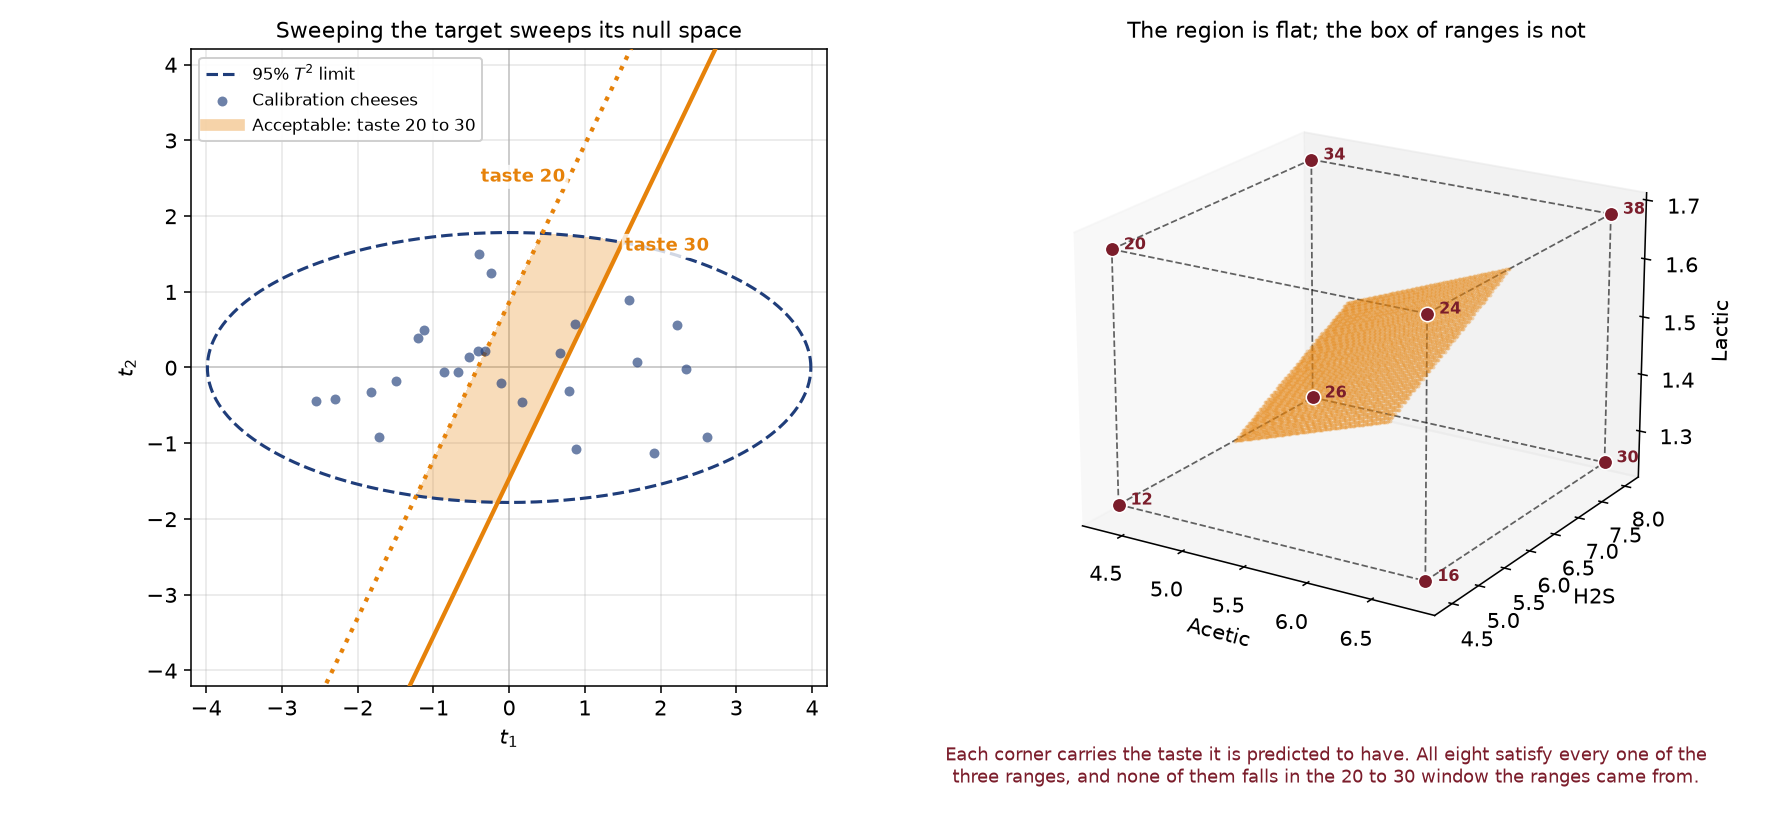
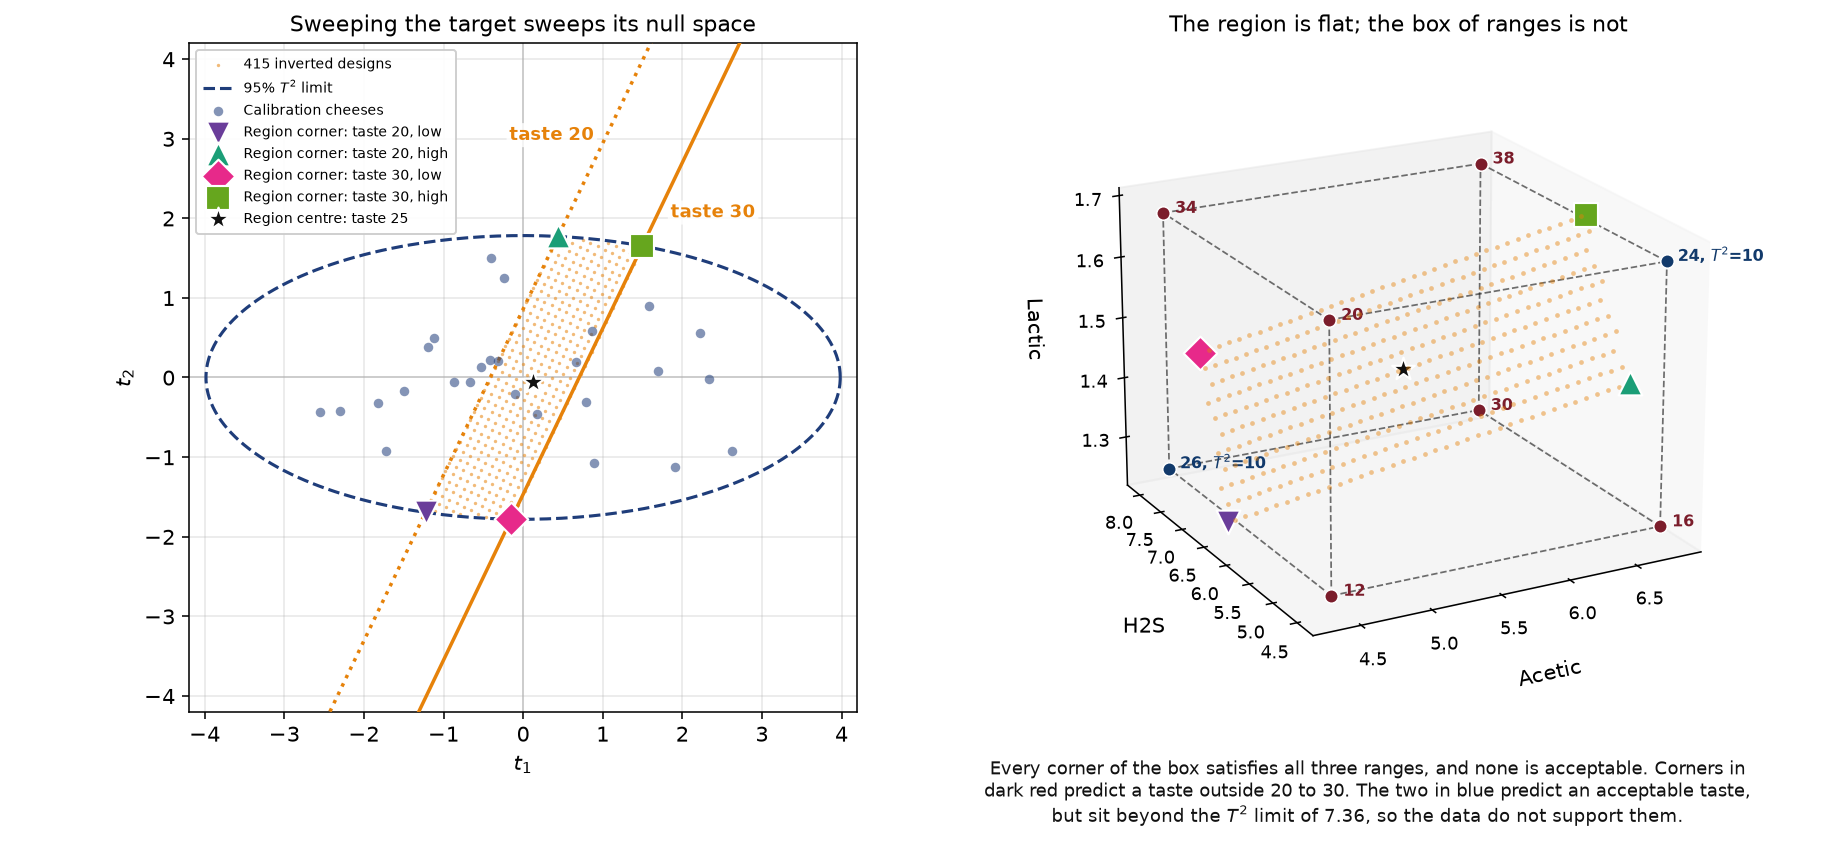
Mark five shared landmarks, and colour the corners by why they fail
Two corrections and one addition.

The claim that no corner falls in the taste window was wrong. Two of the
eight predict 23.8 and 26.0, both perfectly acceptable. They fail because
their T-squared reaches 10.5 and 10.3 against a limit of 7.36, so they are
extrapolations rather than bad-tasting recipes. Corners are now coloured by
which of the two reasons applies, and the blue ones carry their T-squared.

Five points now appear in both panels with the same shape and colour: the
four corners of the region, found by solving where each outer null space
crosses the T-squared limit, and the region's centre. A location in the
score plot can now be followed to the recipe it stands for.

The sweep is 11 tastes at 50 steps each, walking the chord the limit
actually allows rather than a fixed range that discarded most of its steps.
The view rotates to azim -118, which shows the face of the plane rather
than its edge.

Claude-Session: https://claude.ai/code/session_01DsTypY4FcRbrXRxorb9raz

diff --git a/pls/pls-specification-region.py b/pls/pls-specification-region.py
@@ -8,7 +8,11 @@ A taste specification of 20 to 30 is one interval on one number. Inverted, it
 becomes a flat, slanted region in the three inputs. Reporting that region as
 three independent ranges, one per input, describes a box instead, and the box is
 not the region: every one of its eight corners satisfies all three ranges while
-failing the specification the ranges were derived from.
+failing the specification the ranges were derived from. They fail in two
+different ways, which the panel distinguishes by colour. Six predict a taste
+outside the window. The other two predict a perfectly acceptable taste but sit
+far outside the Hotelling's T-squared limit, so they are extrapolations the data
+do not support.
 
 Left panel: how the region is built, in the score plot. Each acceptable taste has
 its own null space, those null spaces are parallel, and sweeping the target from
@@ -17,8 +21,12 @@ the region off in the other direction.
 
 Right panel: the same region in the three inputs, with the enclosing box drawn
 around it. The region is flat because every point on it is rebuilt from two
-scores. The box is a solid. The corners are marked with the taste each one is
-predicted to have.
+scores. The box is a solid.
+
+Five points are marked in both panels with the same shape and colour, so a
+location in the score plot can be followed to the recipe it stands for: the four
+corners of the region, where the outer null spaces meet the T-squared limit, and
+its centre, the direct-inversion solution for a taste of 25.
 
 Requires the ``process_improve`` package (``pip install process-improve``) for
 ``PLS``.
@@ -51,9 +59,19 @@ CONFIDENCE = 0.95
 
 DARK_BLUE = "#1f3d7a"  # calibration cheeses
 ORANGE = "#e6820a"     # the specification region
-MAROON = "#7b1d2b"     # the corners of the box, none of them acceptable
+MAROON = "#7b1d2b"     # box corners rejected because the predicted taste is outside the window
+DEEP_BLUE = "#123a6b"  # box corners whose taste is fine but which lie beyond the T-squared limit
 GREY = "0.55"
 BLACK = "#111111"
+
+# The four corners of the region and its centre, marked identically in both panels.
+LANDMARKS = (
+    ("#6a3d9a", "v", "Region corner: taste 20, low"),
+    ("#1b9e77", "^", "Region corner: taste 20, high"),
+    ("#e7298a", "D", "Region corner: taste 30, low"),
+    ("#66a61e", "s", "Region corner: taste 30, high"),
+    ("#111111", "*", "Region centre: taste 25"),
+)
 
 plt.rcParams.update(
     {
@@ -87,59 +105,79 @@ def build_figure(out_dir: Path) -> None:
         """Hotelling's T-squared for scores given as rows."""
         return ((scores / sf) ** 2).sum(axis=1)
 
-    # A dense grid of the score plane, used only to shade the region in the left panel.
-    axis = np.linspace(-6, 6, 1500)
-    grid = np.column_stack([a.ravel() for a in np.meshgrid(axis, axis)])
-    inside = (t2_of(grid) <= t2_limit) & (taste_of(grid) >= TASTE_LOW) & (taste_of(grid) <= TASTE_HIGH)
-
-    # The region itself is swept exactly as the chapter sweeps it, so the box drawn here
-    # and the min/max the chapter prints are the same numbers.
-    swept = []
-    for target in np.linspace(TASTE_LOW, TASTE_HIGH, 41):
-        for step in np.linspace(-6, 6, 801):
+    # The region, swept exactly as the chapter sweeps it: 11 acceptable tastes, and
+    # 50 steps along each one's null space. The walk range covers the whole chord the
+    # T-squared limit allows, which is about plus or minus 2.1.
+    swept_scores, swept_inputs = [], []
+    for target in np.linspace(TASTE_LOW, TASTE_HIGH, 11):
+        for step in np.linspace(-2.5, 2.5, 50):
             candidate = pls.invert(target, null_space_coordinates=[step])
             if candidate.hotellings_t2 <= t2_limit:
-                swept.append(candidate.x_new.to_numpy())
-    region_inputs = np.array(swept)
-
+                swept_scores.append(candidate.scores.to_numpy())
+                swept_inputs.append(candidate.x_new.to_numpy())
+    swept_scores = np.array(swept_scores)
+    region_inputs = np.array(swept_inputs)
     low, high = region_inputs.min(axis=0), region_inputs.max(axis=0)
+
+    def chord(target: float) -> np.ndarray:
+        """The two steps at which this target's null space crosses the T-squared limit."""
+        base = pls.invert(target)
+        centre = base.scores.to_numpy()
+        direction = base.null_space_basis.to_numpy().ravel()
+        a = ((direction / sf) ** 2).sum()
+        b = 2 * ((centre * direction) / sf**2).sum()
+        c = ((centre / sf) ** 2).sum() - t2_limit
+        root = np.sqrt(b**2 - 4 * a * c)
+        return np.array([(-b - root) / (2 * a), (-b + root) / (2 * a)])
+
+    # Four corners of the region, plus its centre, in both coordinate systems.
+    marks = []
+    for target in (TASTE_LOW, TASTE_HIGH):
+        for step in chord(target):
+            marks.append((target, float(step)))
+    marks.append(((TASTE_LOW + TASTE_HIGH) / 2, 0.0))
+    mark_scores = np.array([pls.invert(t, null_space_coordinates=[s]).scores.to_numpy()
+                            for t, s in marks])
+    mark_inputs = np.array([pls.invert(t, null_space_coordinates=[s]).x_new.to_numpy()
+                            for t, s in marks])
 
     # The eight corners of the box those three ranges describe.
     corners = np.array(np.meshgrid(*([lo, hi] for lo, hi in zip(low, high)))).reshape(3, -1).T
-    corner_taste = pls.predict(pd.DataFrame(corners, columns=X_COLUMNS)).to_numpy().ravel()
+    corner_frame = pd.DataFrame(corners, columns=X_COLUMNS)
+    corner_taste = pls.predict(corner_frame).to_numpy().ravel()
+    corner_t2 = pls.diagnose(corner_frame).hotellings_t2.to_numpy()
+    taste_ok = (corner_taste >= TASTE_LOW) & (corner_taste <= TASTE_HIGH)
 
-    fig = plt.figure(figsize=(12.8, 5.9))
+    fig = plt.figure(figsize=(13.2, 6.2))
     ax_scores = fig.add_subplot(1, 2, 1)
     ax_inputs = fig.add_subplot(1, 2, 2, projection="3d")
 
     # --- left: how the region is built, in the score plot ---------------------
-    mesh_1, mesh_2 = np.meshgrid(axis, axis)
-    mask = inside.reshape(mesh_1.shape).astype(float)
-    ax_scores.contourf(mesh_1, mesh_2, mask, levels=[0.5, 1.5], colors=[ORANGE], alpha=0.28,
-                       zorder=2)
+    ax_scores.scatter(swept_scores[:, 0], swept_scores[:, 1], s=3, color=ORANGE, alpha=0.55,
+                      lw=0, zorder=2, label=f"{len(swept_scores)} inverted designs")
     angle = np.linspace(0, 2 * np.pi, 400)
     ax_scores.plot(sf[0] * np.sqrt(t2_limit) * np.cos(angle),
                    sf[1] * np.sqrt(t2_limit) * np.sin(angle),
                    color=DARK_BLUE, lw=1.6, ls="--", zorder=4,
                    label=f"{CONFIDENCE:.0%} $T^2$ limit")
     span = np.linspace(-6, 6, 2)
-    for target, style, nudge in ((TASTE_LOW, ":", -0.55), (TASTE_HIGH, "-", 0.55)):
-        centre = pls.invert(target).scores.to_numpy()
-        direction = pls.invert(target).null_space_basis.to_numpy().ravel()
+    for target, style, nudge in ((TASTE_LOW, ":", -0.62), (TASTE_HIGH, "-", 0.62)):
+        base = pls.invert(target)
+        centre = base.scores.to_numpy()
+        direction = base.null_space_basis.to_numpy().ravel()
         line = np.array([centre + s * direction for s in span])
-        ax_scores.plot(line[:, 0], line[:, 1], color=ORANGE, lw=2.2, ls=style, zorder=5)
-        # Label each boundary beside its own line, nudged along the gradient so the two
-        # labels cannot be mistaken for one another.
-        along = centre + 2.35 * direction + nudge * (q / np.linalg.norm(q))
+        ax_scores.plot(line[:, 0], line[:, 1], color=ORANGE, lw=1.8, ls=style, zorder=3)
+        along = centre + 2.9 * direction + nudge * (q / np.linalg.norm(q))
         ax_scores.annotate(f"taste {target:.0f}", xy=tuple(along), fontsize=9.5, color=ORANGE,
                            fontweight="bold", ha="center", va="center",
                            bbox={"facecolor": "white", "edgecolor": "none", "alpha": 0.8,
                                  "boxstyle": "round,pad=0.15"}, zorder=7)
     scores = pls.scores_.to_numpy()
-    ax_scores.scatter(scores[:, 0], scores[:, 1], s=26, color=DARK_BLUE, alpha=0.65, lw=0,
-                      zorder=6, label="Calibration cheeses")
-    ax_scores.plot([], [], color=ORANGE, lw=6, alpha=0.35,
-                   label=f"Acceptable: taste {TASTE_LOW:.0f} to {TASTE_HIGH:.0f}")
+    ax_scores.scatter(scores[:, 0], scores[:, 1], s=24, color=DARK_BLUE, alpha=0.55, lw=0,
+                      zorder=5, label="Calibration cheeses")
+    for point, (colour, marker, label) in zip(mark_scores, LANDMARKS):
+        ax_scores.scatter(*point, color=colour, marker=marker, s=150, edgecolors="white",
+                          linewidths=1.1, zorder=9, label=label)
     ax_scores.axhline(0, color="0.8", lw=0.8, zorder=0)
     ax_scores.axvline(0, color="0.8", lw=0.8, zorder=0)
     ax_scores.set_xlim(-4.2, 4.2)
@@ -148,46 +186,51 @@ def build_figure(out_dir: Path) -> None:
     ax_scores.set_xlabel("$t_1$")
     ax_scores.set_ylabel("$t_2$")
     ax_scores.set_title("Sweeping the target sweeps its null space", fontsize=11.5)
-    ax_scores.legend(loc="upper left", fontsize=8.5, framealpha=0.93)
+    ax_scores.legend(loc="upper left", fontsize=7.4, framealpha=0.94, borderpad=0.5)
 
     # --- right: the region against the box of three ranges --------------------
-    thinned = region_inputs[:: max(1, len(region_inputs) // 4000)]
-    ax_inputs.scatter(thinned[:, 0], thinned[:, 1], thinned[:, 2], s=4, color=ORANGE,
-                      alpha=0.30, lw=0, depthshade=False)
+    ax_inputs.scatter(region_inputs[:, 0], region_inputs[:, 1], region_inputs[:, 2], s=6,
+                      color=ORANGE, alpha=0.45, lw=0, depthshade=False)
     for start, end in (
         (0, 1), (0, 2), (0, 4), (1, 3), (1, 5), (2, 3),
         (2, 6), (3, 7), (4, 5), (4, 6), (5, 7), (6, 7),
     ):
         edge = np.vstack([corners[start], corners[end]])
-        ax_inputs.plot(edge[:, 0], edge[:, 1], edge[:, 2], color=BLACK, lw=0.9, ls="--", alpha=0.65)
-    ax_inputs.scatter(corners[:, 0], corners[:, 1], corners[:, 2], s=55, color=MAROON,
-                      edgecolors="white", linewidths=0.8, depthshade=False, zorder=10)
-    for corner, taste in zip(corners, corner_taste):
-        ax_inputs.text(corner[0], corner[1], corner[2], f"  {taste:.0f}", fontsize=8,
-                       color=MAROON, fontweight="bold")
-    ax_inputs.set_xlabel("Acetic")
-    ax_inputs.set_ylabel("H2S")
-    ax_inputs.set_zlabel("Lactic")
+        ax_inputs.plot(edge[:, 0], edge[:, 1], edge[:, 2], color=BLACK, lw=0.9, ls="--", alpha=0.6)
+    for corner, taste, t2_value, ok in zip(corners, corner_taste, corner_t2, taste_ok):
+        colour = DEEP_BLUE if ok else MAROON
+        ax_inputs.scatter(*corner, s=48, color=colour, edgecolors="white", linewidths=0.8,
+                          depthshade=False, zorder=8)
+        note = f"  {taste:.0f}" if not ok else f"  {taste:.0f}, $T^2$={t2_value:.0f}"
+        ax_inputs.text(corner[0], corner[1], corner[2], note, fontsize=8, color=colour,
+                       fontweight="bold")
+    for point, (colour, marker, _label) in zip(mark_inputs, LANDMARKS):
+        ax_inputs.scatter(*point, color=colour, marker=marker, s=150, edgecolors="white",
+                          linewidths=1.1, depthshade=False, zorder=10)
+    ax_inputs.set_xlabel("Acetic", labelpad=10)
+    ax_inputs.set_ylabel("H2S", labelpad=12)
+    ax_inputs.set_zlabel("Lactic", labelpad=8)
+    ax_inputs.tick_params(axis="both", pad=2, labelsize=9)
     ax_inputs.set_title("The region is flat; the box of ranges is not", fontsize=11.5)
-    ax_inputs.view_init(elev=20, azim=-58)
+    ax_inputs.view_init(elev=20, azim=-118)
     ax_inputs.grid(visible=False)
 
-
     fig.tight_layout()
-    # Placed at figure level, below both axes, so it cannot collide with the 3-D tick labels.
-    fig.subplots_adjust(bottom=0.17)
+    fig.subplots_adjust(bottom=0.18)
     fig.text(
         0.74, 0.045,
-        f"Each corner carries the taste it is predicted to have. All eight satisfy every one of the\n"
-        f"three ranges, and none of them falls in the {TASTE_LOW:.0f} to {TASTE_HIGH:.0f} window "
-        f"the ranges came from.",
-        ha="center", va="bottom", fontsize=9.5, color=MAROON,
+        "Every corner of the box satisfies all three ranges, and none is acceptable. Corners in\n"
+        f"dark red predict a taste outside {TASTE_LOW:.0f} to {TASTE_HIGH:.0f}. The two in blue "
+        f"predict an acceptable taste,\nbut sit beyond the $T^2$ limit of {t2_limit:.2f}, "
+        "so the data do not support them.",
+        ha="center", va="bottom", fontsize=9.5, color=BLACK,
     )
     fig.savefig(out_dir / "pls-specification-region.png")
     plt.close(fig)
 
-    print(f"box: {np.round(low, 2)} to {np.round(high, 2)}")
-    print(f"corner tastes: {np.round(np.sort(corner_taste), 1)}")
+    print(f"box: {np.round(low, 2)} to {np.round(high, 2)}, from {len(region_inputs)} kept designs")
+    for taste, t2_value, ok in sorted(zip(corner_taste, corner_t2, taste_ok)):
+        print(f"  corner taste {taste:6.2f}  T2 {t2_value:6.2f}  taste in window: {ok}")
 
 
 def main() -> None:
